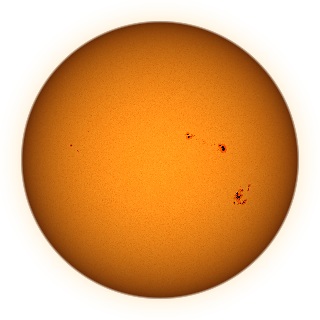
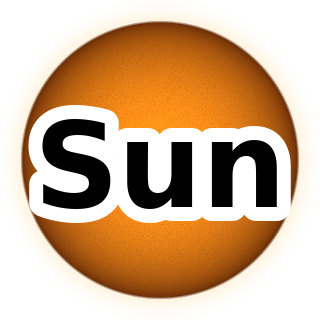
This is the updates about the Sun

Changed region(s): [[0.0625, 0.3125, 0.9062, 0.7188]]

diff --git a/budget_tracker/web/css/app.css b/budget_tracker/web/css/app.css
@@ -882,23 +882,10 @@ body.is-printing #print-sheet {
   position: absolute;
   top: 0;
   right: 0;
-  width: 64px;
-  height: 64px;
+  width: 88px;
+  height: 88px;
 }
 .st-sun img { width: 100%; height: 100%; display: block; }
-.st-sun-name {
-  position: absolute;
-  left: 0;
-  right: 0;
-  top: 50%;
-  transform: translateY(-50%);
-  color: #000;
-  font-size: 15px;
-  font-weight: 700;
-  line-height: 1;
-  text-align: center;
-  text-shadow: -1px -1px 0 #fff, 1px -1px 0 #fff, -1px 1px 0 #fff, 1px 1px 0 #fff;
-}
 .st-brand {
   margin: 0 0 6px;
   color: #000;
@@ -913,7 +900,7 @@ body.is-printing #print-sheet {
   align-items: flex-end;
   gap: 24px;
   position: relative;
-  padding: 0 76px 18px 0;
+  padding: 0 100px 18px 0;
   border-bottom: 1px solid #000;
 }
 .statement h1 {
@@ -1247,10 +1234,6 @@ body.is-entry .guide { bottom: calc(76px + env(safe-area-inset-bottom)); }
   .st-logo {
     background: transparent !important;
   }
-  .st-sun-name {
-    color: #000 !important;
-    text-shadow: -1px -1px 0 #fff, 1px -1px 0 #fff, -1px 1px 0 #fff, 1px 1px 0 #fff !important;
-  }
   .statement {
     max-width: none;
     margin: 0 !important;
@@ -1261,7 +1244,7 @@ body.is-entry .guide { bottom: calc(76px + env(safe-area-inset-bottom)); }
   .st-kpi strong { font-size: 16pt; }
   .st-table td, .st-table tfoot td { font-size: 12pt; }
   .st-table th { font-size: 11pt; }
-  .statement, .st-kpi, .st-table, .st-table th, .st-table td, .st-seal, .st-logo, .st-sun, .st-sun-name {
+  .statement, .st-kpi, .st-table, .st-table th, .st-table td, .st-seal, .st-logo, .st-sun {
     -webkit-print-color-adjust: exact !important;
     print-color-adjust: exact !important;
   }

diff --git a/budget_tracker/web/js/ui.js b/budget_tracker/web/js/ui.js
@@ -1786,7 +1786,7 @@ function chip(action, value, label, active) {
       : "";
     return '<article class="statement"><header class="st-head"><div class="st-id"><img class="st-logo" src="icons/icon.svg" alt=""><div><p class="st-brand">Budget Tracker</p><h1>' +
       esc(model.title) + "</h1>" + (model.period ? '<p class="st-period">' + esc(model.period) + "</p>" : "") +
-      '</div></div><span class="st-sun"><img src="img/sun.png" alt=""><span class="st-sun-name">Sun</span></span><div class="st-meta">' +
+      '</div></div><span class="st-sun"><img src="img/sun.png" alt="Sun"></span><div class="st-meta">' +
       (currency ? "<strong>" + esc(currency) + "</strong>" : "") + "<p>" +
       esc(t("pdf-prepared", { date: L.formatDate(prepared) })) + "</p></div></header>" + body + code +
       '<p class="st-save no-print"><button type="button" class="btn btn-secondary" data-action="close-pdf">' +

diff --git a/budget_tracker/web/sw.js b/budget_tracker/web/sw.js
@@ -2,7 +2,7 @@
  * The app shell is stored on the phone so Budget Tracker opens with no internet.
  * Records are not cached here; they stay in the JSON file or in the browser.
  */
-var CACHE = "budget-tracker-v42";
+var CACHE = "budget-tracker-v43";
 var ASSETS = [
   "./",
   "./index.html",
